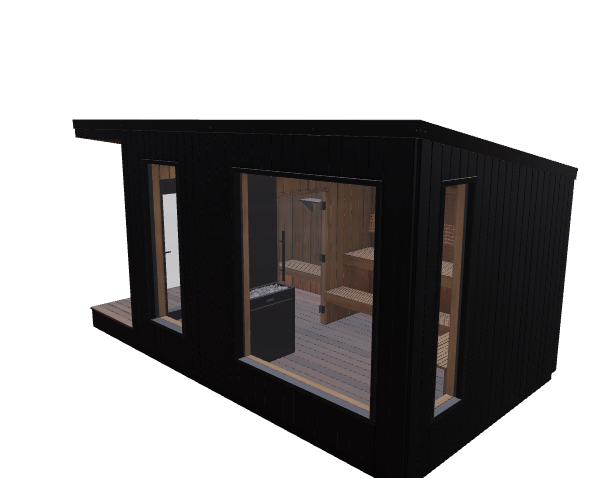
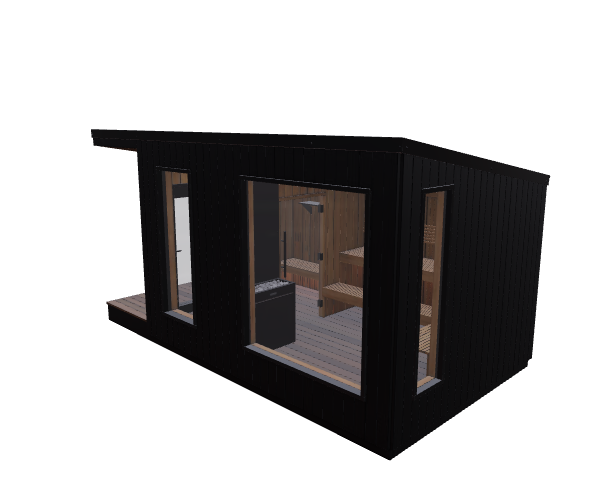
feat: add ModelViewer component with interactive camera controls and placeholder assets

Changed region(s): [[0.1204, 0.2343, 0.9632, 1.0], [0.3913, 0.3515, 0.6321, 0.8787]]

diff --git a/src/components/ModelViewer.tsx b/src/components/ModelViewer.tsx
@@ -132,33 +132,33 @@ interface ModelViewerProps {
   imageUrl?: string;
 }
 
-export function ModelViewer({ modelUrl, onLoaded, imageUrl }: ModelViewerProps) {
+export function ModelViewer({ modelUrl, onLoaded }: ModelViewerProps) {
   const controlsRef = useRef<CameraControlsImpl>(null);
-  const containerRef = useRef<HTMLDivElement>(null);
+  // const containerRef = useRef<HTMLDivElement>(null);
   const [modelSize, setModelSize] = useState<THREE.Vector3 | null>(null);
   const [shadowOffset, setShadowOffset] = useState<number>(0);
   const [isSceneReady, setIsSceneReady] = useState(false);
 
-  const handleCapture = useCallback(() => {
-    const container = containerRef.current;
-    if (!container) return;
-
-    const canvas = container.querySelector('canvas');
-    if (!canvas) return;
-
-    // Get the exact target filename from imageUrl or fallback to modelUrl
-    const targetPath = imageUrl || modelUrl;
-    const filename = targetPath.split('/').pop()?.replace('.glb', '.webp') || 'model.webp';
-
-    // Capture the WebGL context (transparent background)
-    const dataUrl = canvas.toDataURL('image/webp', 1.0);
-
-    // Download the screenshot
-    const link = document.createElement('a');
-    link.download = filename;
-    link.href = dataUrl;
-    link.click();
-  }, [imageUrl, modelUrl]);
+  // const handleCapture = useCallback(() => {
+  //   const container = containerRef.current;
+  //   if (!container) return;
+  // 
+  //   const canvas = container.querySelector('canvas');
+  //   if (!canvas) return;
+  // 
+  //   // Get the exact target filename from imageUrl or fallback to modelUrl
+  //   const targetPath = imageUrl || modelUrl;
+  //   const filename = targetPath.split('/').pop()?.replace('.glb', '.webp') || 'model.webp';
+  // 
+  //   // Capture the WebGL context (transparent background)
+  //   const dataUrl = canvas.toDataURL('image/webp', 1.0);
+  // 
+  //   // Download the screenshot
+  //   const link = document.createElement('a');
+  //   link.download = filename;
+  //   link.href = dataUrl;
+  //   link.click();
+  // }, [imageUrl, modelUrl]);
 
   const handleModelLoad = useCallback((scene: THREE.Group) => {
     // Reset position first to calculate original bounds
@@ -203,7 +203,7 @@ export function ModelViewer({ modelUrl, onLoaded, imageUrl }: ModelViewerProps) 
   }, []);
 
   return (
-    <div ref={containerRef} style={{ width: '100%', height: '100%', position: 'relative' }}>
+    <div style={{ width: '100%', height: '100%', position: 'relative' }}>
       <Canvas
         gl={{ alpha: true, antialias: true, preserveDrawingBuffer: true }}
         onCreated={(state) => {
@@ -248,7 +248,7 @@ export function ModelViewer({ modelUrl, onLoaded, imageUrl }: ModelViewerProps) 
         <CameraControls ref={controlsRef} minDistance={1} maxDistance={20} dollySpeed={0} truckSpeed={0} />
       </Canvas>
 
-      {/* Dev helper: Capture WebGL screenshot to match Option 1 alignment */}
+      {/* Dev helper: Capture WebGL screenshot to match Option 1 alignment (Commented out to hide from UI)
       <button
         onClick={handleCapture}
         title="Capture placeholder screenshot (Option 1)"
@@ -284,6 +284,7 @@ export function ModelViewer({ modelUrl, onLoaded, imageUrl }: ModelViewerProps) 
           <circle cx="12" cy="13" r="4"></circle>
         </svg>
       </button>
+      */}
     </div>
   );
 }
